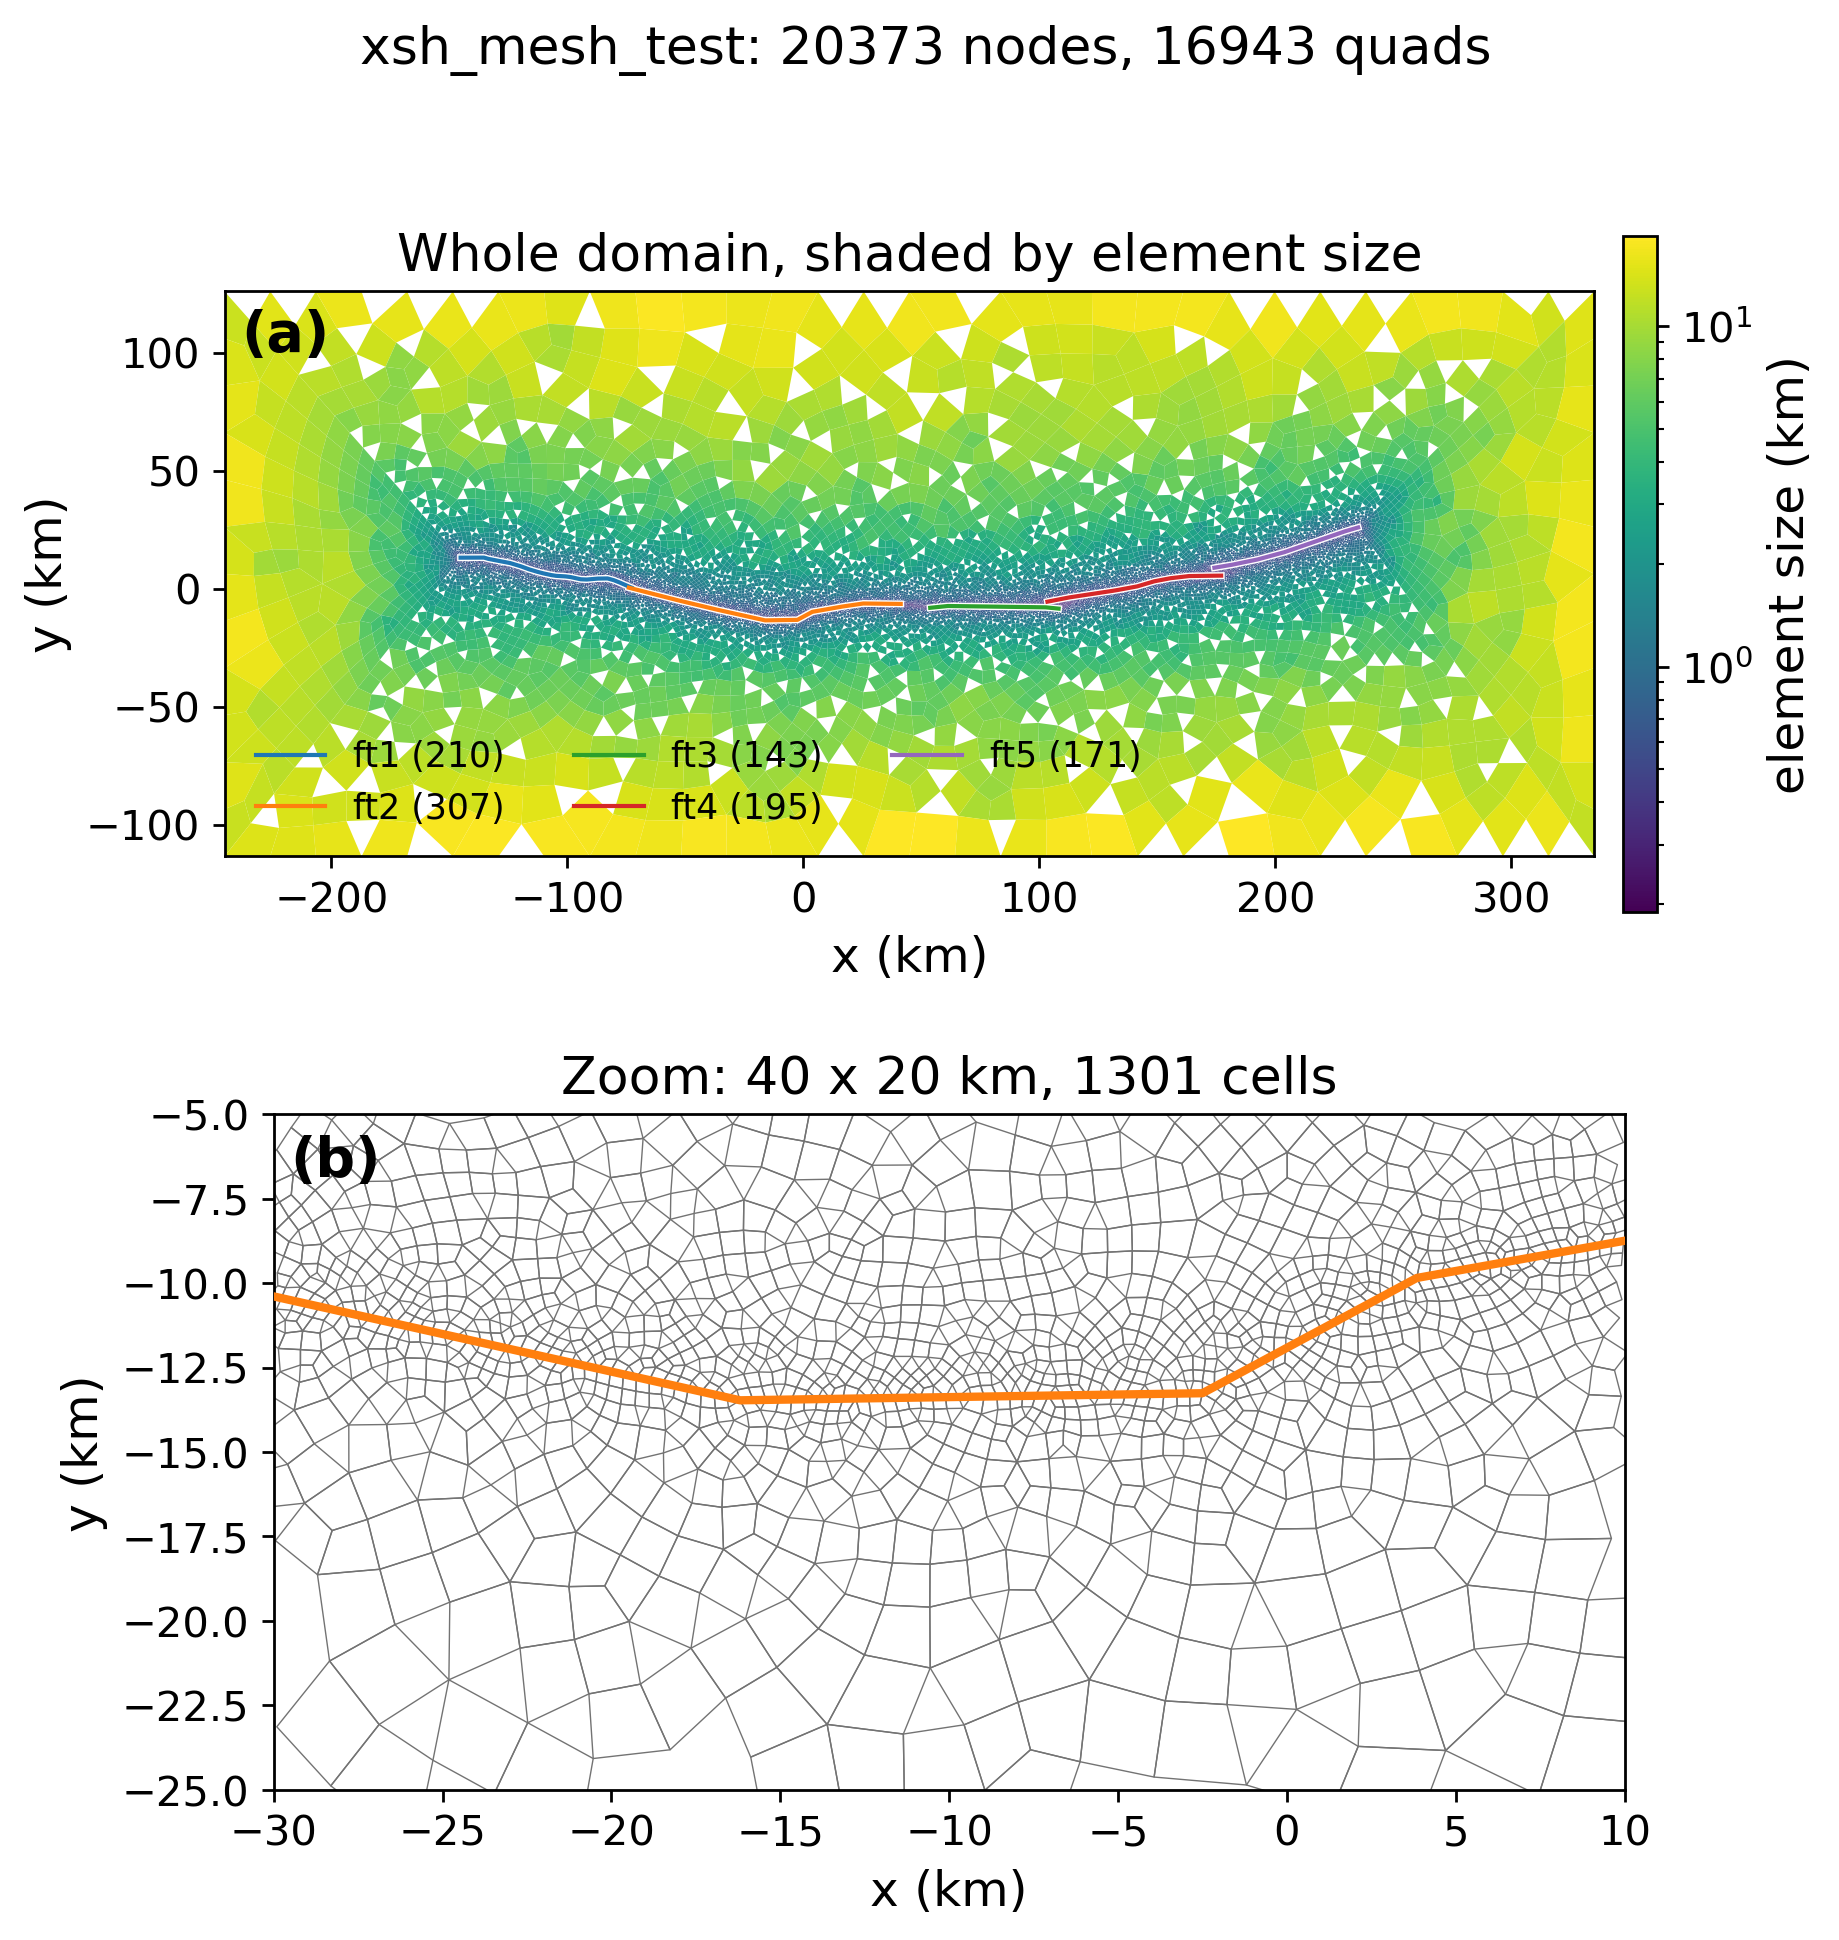
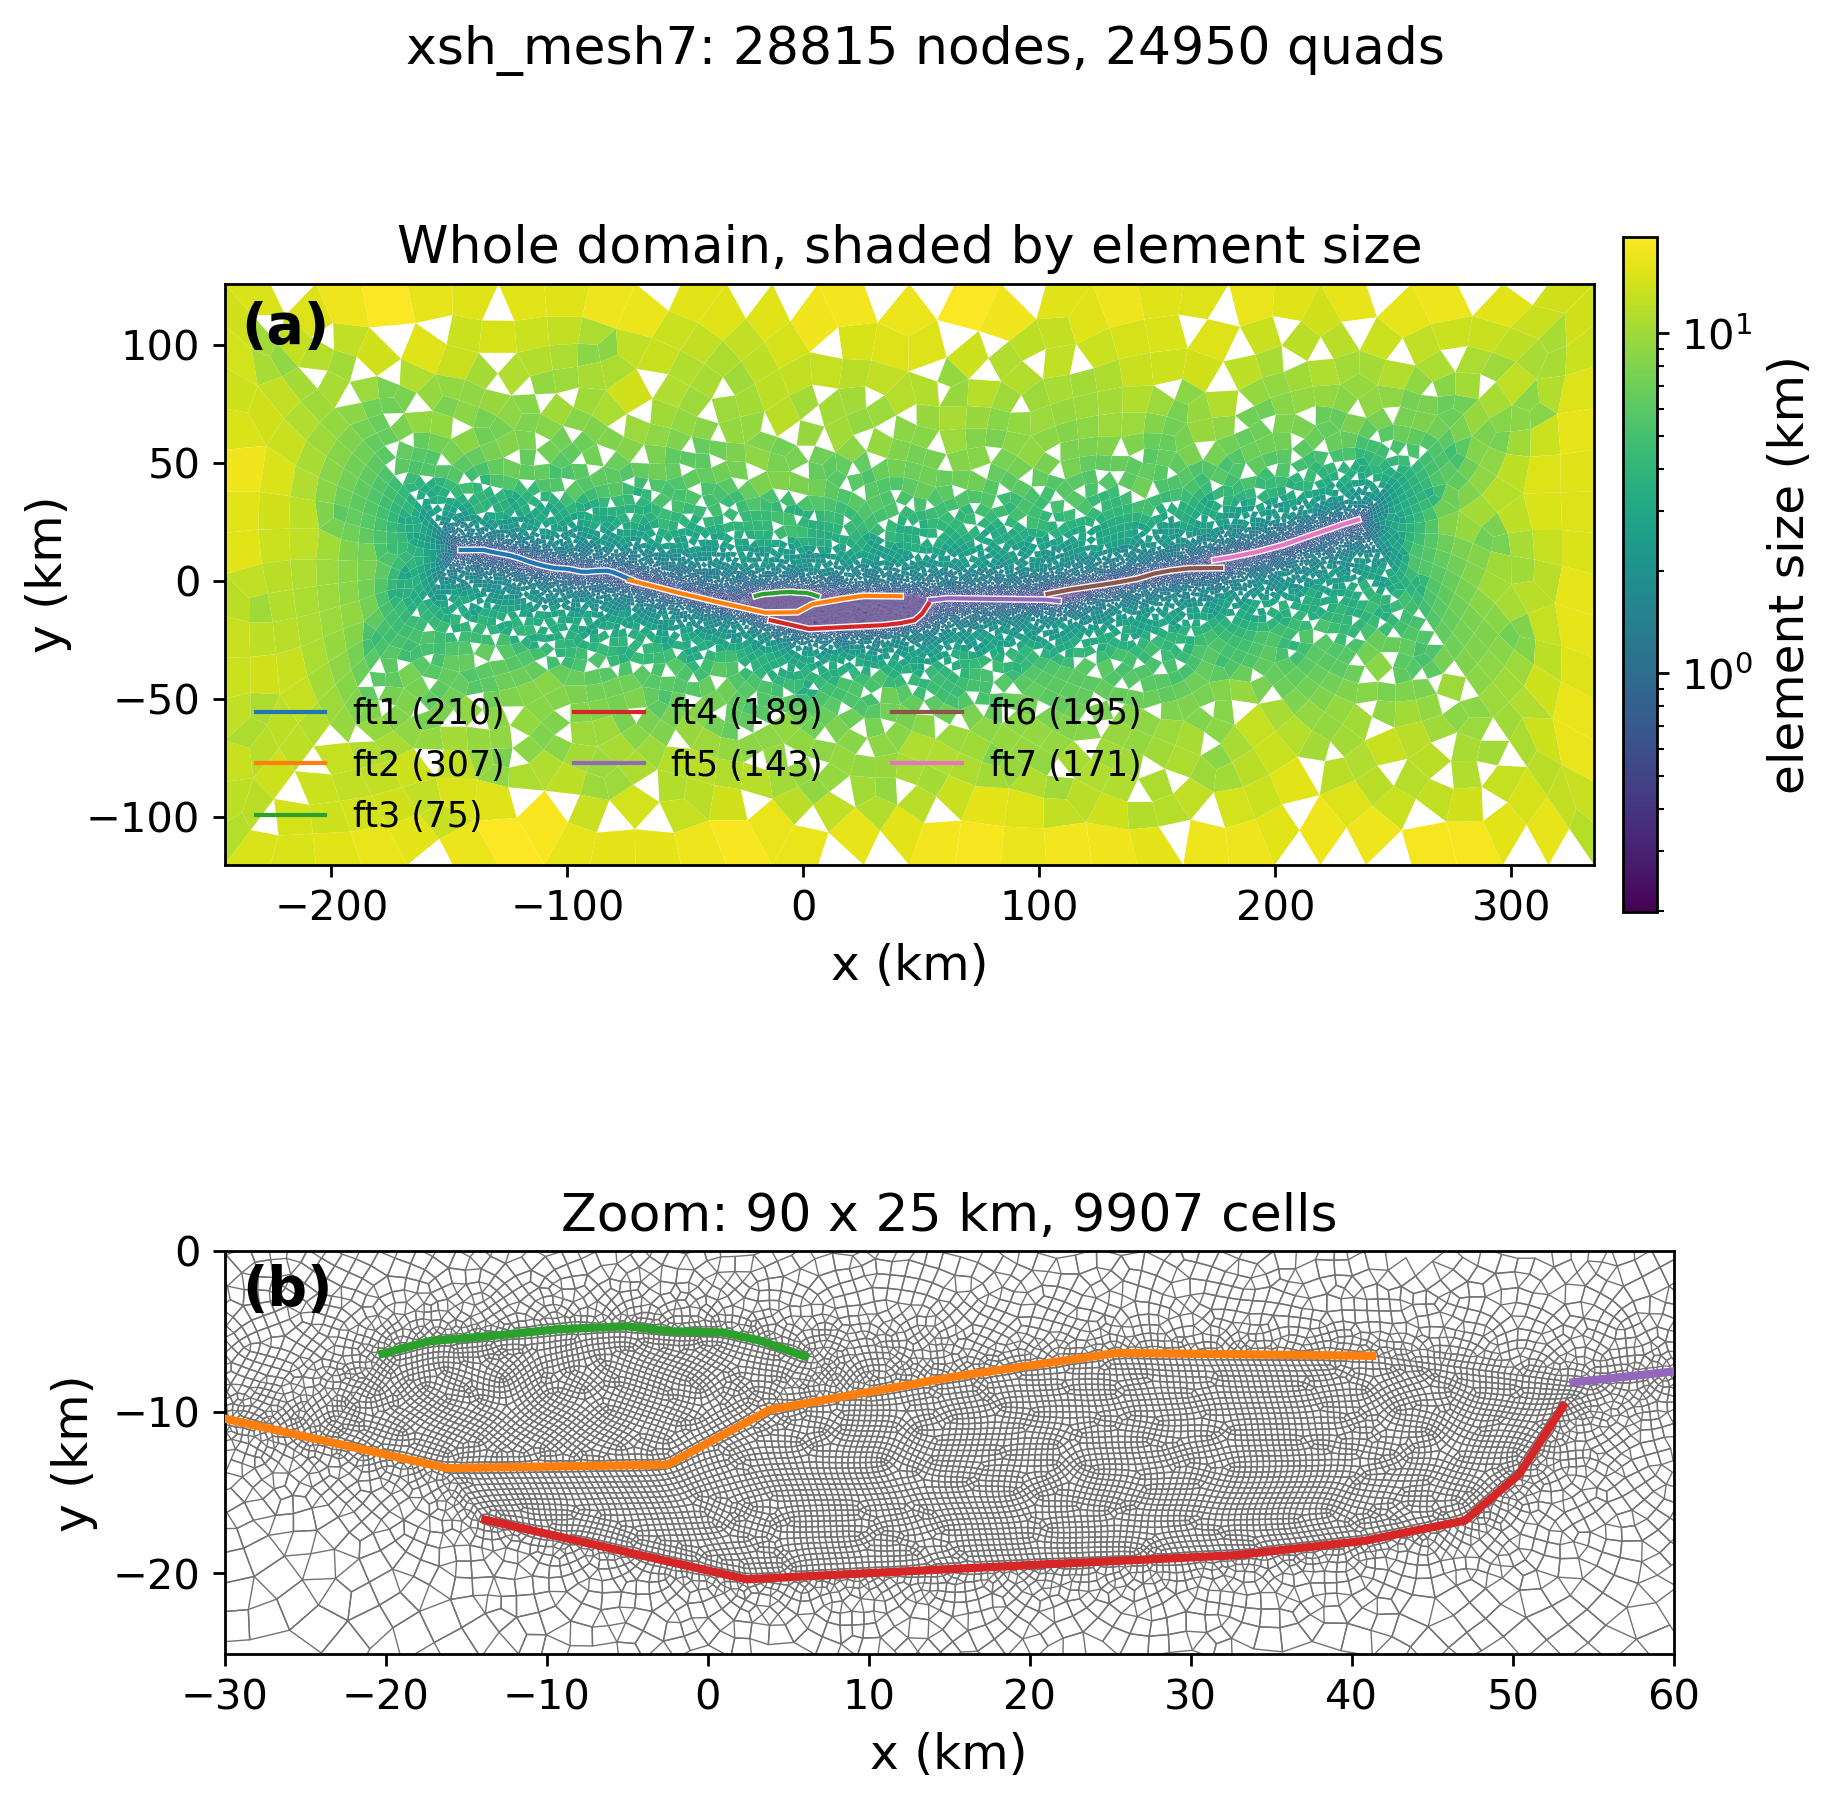
xianshuihe: mesh all seven faults, splays included
Replaces the 5-fault chain mesh with the full 7-fault system. ft3 runs
above the chain and ft4 below it, so neither is embedded in a block --
each divides one side into a lens (splay to chain) plus the outer block,
giving six surfaces against gulang's four.

The first attempt hung gmsh rather than failing. Cause: the auxiliary line
from ft3's end to ft2's END crosses ft2. ft2 is still at y ~ -10 beneath
ft3 and only rises to -6.5 at its own end, so the straight line cuts the
chain and the lens loop self-intersects. Verified by segment-intersection
test before changing anything -- A3e crossed ft2 once, the other three
auxiliaries were clean.

Fix: attach each splay auxiliary to the control point ON ft2 nearest the
splay end, not to ft2's far end. gmsh numbers a fault's points
consecutively, so interior point k is node ftEndNodeId[0]+k; the lens then
bounds only the ft2 span beneath the splay and the auxiliaries are short
and near-perpendicular. Attach points come out at ft2 indices 8 and 11 for
ft3, 9 for ft4.

Mesh: 28815 nodes, 24950 quads, fault nodes
210/307/75/189/143/195/171 = 1290. Cell geometry is clean -- 0 degenerate,
0 cells with angle<20 deg or aspect>10, aspect median 1.25 max 3.01,
minimum interior angle 34.4 deg.

KNOWN DEFECT, not yet fixed: checkMeshQuality reports 1 master orphan on
ft4. Every other fault is clean on both master and slave. It is almost
certainly at ft4's NW end where the A4e auxiliary meets ft5's start. This
[…]

diff --git a/compset/xianshuihe.gmsh.lite/meshgen.py b/compset/xianshuihe.gmsh.lite/meshgen.py
@@ -21,13 +21,15 @@ meshName = 'eqdynaMesh'
 # Xianshuihe through-going chain: 5 faults succeeding one another SE -> NW,
 # connected by auxiliary lines for mesh topology. Built by
 # export_fault_geometry.py from the 1:1M KML; see README for the mapping
-# mf1..mf5 -> ft1,ft2,ft5,ft6,ft7 and which polylines each merges.
+# ft1..ft7; see README for which polylines each fault merges.
 #
-# The two splay strands (seg3, seg5) are NOT here. They run parallel to mf2
-# rather than continuing it, so they need a hand-built multi-surface topology
-# like subei.gmsh.lite's, not this chain. Deferred deliberately.
-ftNamesForGmsh = ['mf1', 'mf2', 'mf3', 'mf4', 'mf5']
-ftNames = ['mf1', 'mf2', 'mf3', 'mf4', 'mf5']
+# Seven faults. Five form the through-going chain ft1 -> ft2 -> ft5 -> ft6 ->
+# ft7; ft3 and ft4 are the Kangding splay strands. ft3 runs ABOVE the chain
+# and ft4 BELOW it, so neither is embedded inside a block -- each divides one
+# side into a lens (between the splay and the chain) plus the outer block.
+# That gives six surfaces against gulang's four.
+ftNamesForGmsh = ['ft1', 'ft2', 'ft3', 'ft4', 'ft5', 'ft6', 'ft7']
+ftNames = ['ft1', 'ft2', 'ft3', 'ft4', 'ft5', 'ft6', 'ft7']
 
 
 system = "xianshuihe"
@@ -68,6 +70,7 @@ lineCount = 0
 surfaceCount = 0
 from scipy.interpolate import CubicSpline as _CS
 ftCtrlSpline = {}      # {ftName: (xs_km, CubicSpline_obj)} for analytical tangent
+ftDecimated = {}       # {ftName: decimated control points}
 for ftName in ftNamesForGmsh:
     ftFileName = 'user_fault_geometry_input/' + ftName + '.gmt.txt'
     ftLoc = loadFtLoc(ftFileName)
@@ -80,6 +83,11 @@ for ftName in ftNamesForGmsh:
     ftCtrlSpline[ftName] = (xs_dec.copy(), _CS(xs_dec, ys_dec, bc_type='natural'))
     numOfControlPts, ftEndNodeId, ftRange = createFtPoints(ftLoc, numOfControlPts, dx)
     ftEndNodeIdDict[ftName] = ftEndNodeId
+    # Keep the decimated control points and the id of the first one. gmsh
+    # numbers a fault's points consecutively, so interior point k has node id
+    # ftEndNodeId[0] + k -- needed to attach the splay auxiliaries to the
+    # nearest point ON the chain instead of to its far end.
+    ftDecimated[ftName] = ftLoc
     modelRange = redefineModelRange(modelRange, ftRange)
     lineCount, ftEndLineId = createLinesForFt(ftEndNodeId, lineCount)
     ftEndLineIdDict[ftName] = ftEndLineId
@@ -98,12 +106,13 @@ numOfControlPts, boundaryNodeIdDict = createBoundaryNodes(numOfControlPts, model
 # this part always needs some customized design
 # all lines are defined counterclockwisely.
 
-mf1Curve = [i+ftEndLineIdDict['mf1'][0] for i in range(ftEndLineIdDict['mf1'][1]-ftEndLineIdDict['mf1'][0]+1)]
-mf2Curve = [i+ftEndLineIdDict['mf2'][0] for i in range(ftEndLineIdDict['mf2'][1]-ftEndLineIdDict['mf2'][0]+1)]
-mf3Curve = [i+ftEndLineIdDict['mf3'][0] for i in range(ftEndLineIdDict['mf3'][1]-ftEndLineIdDict['mf3'][0]+1)]
-mf4Curve = [i+ftEndLineIdDict['mf4'][0] for i in range(ftEndLineIdDict['mf4'][1]-ftEndLineIdDict['mf4'][0]+1)]
-mf5Curve = [i+ftEndLineIdDict['mf5'][0] for i in range(ftEndLineIdDict['mf5'][1]-ftEndLineIdDict['mf5'][0]+1)]
-#print(mf1Curve, mf2Curve, mf3Curve, mf4Curve, mf5Curve)
+ft1Curve = [k+ftEndLineIdDict['ft1'][0] for k in range(ftEndLineIdDict['ft1'][1]-ftEndLineIdDict['ft1'][0]+1)]
+ft2Curve = [k+ftEndLineIdDict['ft2'][0] for k in range(ftEndLineIdDict['ft2'][1]-ftEndLineIdDict['ft2'][0]+1)]
+ft3Curve = [k+ftEndLineIdDict['ft3'][0] for k in range(ftEndLineIdDict['ft3'][1]-ftEndLineIdDict['ft3'][0]+1)]
+ft4Curve = [k+ftEndLineIdDict['ft4'][0] for k in range(ftEndLineIdDict['ft4'][1]-ftEndLineIdDict['ft4'][0]+1)]
+ft5Curve = [k+ftEndLineIdDict['ft5'][0] for k in range(ftEndLineIdDict['ft5'][1]-ftEndLineIdDict['ft5'][0]+1)]
+ft6Curve = [k+ftEndLineIdDict['ft6'][0] for k in range(ftEndLineIdDict['ft6'][1]-ftEndLineIdDict['ft6'][0]+1)]
+ft7Curve = [k+ftEndLineIdDict['ft7'][0] for k in range(ftEndLineIdDict['ft7'][1]-ftEndLineIdDict['ft7'][0]+1)]
 
 # boundary edges
 lineCount += 1
@@ -115,37 +124,79 @@ L = gmsh.model.geo.addLine(boundaryNodeIdDict['left_top'], boundaryNodeIdDict['l
 lineCount += 1
 R = gmsh.model.geo.addLine(boundaryNodeIdDict['right_top'], boundaryNodeIdDict['right_bottom'], tag=lineCount)
 
-# fault chain to boundary
+# chain ends to boundary
 lineCount += 1
-FT_LT = gmsh.model.geo.addLine(ftEndNodeIdDict['mf1'][0], boundaryNodeIdDict['left_top'], tag=lineCount) # ft1 start to left top
+FT_LT = gmsh.model.geo.addLine(ftEndNodeIdDict['ft1'][0], boundaryNodeIdDict['left_top'], tag=lineCount)
 lineCount += 1
-FT_LB = gmsh.model.geo.addLine(ftEndNodeIdDict['mf1'][0], boundaryNodeIdDict['left_bottom'], tag=lineCount) # ft1 start to left bottom
+FT_LB = gmsh.model.geo.addLine(ftEndNodeIdDict['ft1'][0], boundaryNodeIdDict['left_bottom'], tag=lineCount)
 lineCount += 1
-FT_RT = gmsh.model.geo.addLine(ftEndNodeIdDict['mf5'][1], boundaryNodeIdDict['right_top'], tag=lineCount) # ft5 end to right top
+FT_RT = gmsh.model.geo.addLine(ftEndNodeIdDict['ft7'][1], boundaryNodeIdDict['right_top'], tag=lineCount)
 lineCount += 1
-FT_RB = gmsh.model.geo.addLine(ftEndNodeIdDict['mf5'][1], boundaryNodeIdDict['right_bottom'], tag=lineCount) # ft5 end to right bottom
+FT_RB = gmsh.model.geo.addLine(ftEndNodeIdDict['ft7'][1], boundaryNodeIdDict['right_bottom'], tag=lineCount)
 
-# connecting adjacent faults
+# chain connectors
 lineCount += 1
-F1_F2 = gmsh.model.geo.addLine(ftEndNodeIdDict['mf1'][1], ftEndNodeIdDict['mf2'][0], tag=lineCount) # ft1 end to ft2 start
+C12 = gmsh.model.geo.addLine(ftEndNodeIdDict['ft1'][1], ftEndNodeIdDict['ft2'][0], tag=lineCount)
 lineCount += 1
-F2_F3 = gmsh.model.geo.addLine(ftEndNodeIdDict['mf2'][1], ftEndNodeIdDict['mf3'][0], tag=lineCount) # ft2 end to ft3 start
+C25 = gmsh.model.geo.addLine(ftEndNodeIdDict['ft2'][1], ftEndNodeIdDict['ft5'][0], tag=lineCount)
 lineCount += 1
-F3_F4 = gmsh.model.geo.addLine(ftEndNodeIdDict['mf3'][1], ftEndNodeIdDict['mf4'][0], tag=lineCount) # ft3 end to ft4 start
+C56 = gmsh.model.geo.addLine(ftEndNodeIdDict['ft5'][1], ftEndNodeIdDict['ft6'][0], tag=lineCount)
 lineCount += 1
-F4_F5 = gmsh.model.geo.addLine(ftEndNodeIdDict['mf4'][1], ftEndNodeIdDict['mf5'][0], tag=lineCount) # ft4 end to ft5 start
+C67 = gmsh.model.geo.addLine(ftEndNodeIdDict['ft6'][1], ftEndNodeIdDict['ft7'][0], tag=lineCount)
 
-# the fault chain as a single curve list
-faultChain = mf1Curve+[F1_F2]+mf2Curve+[F2_F3]+mf3Curve+[F3_F4]+mf4Curve+[F4_F5]+mf5Curve
-reversedFaultChain = addMinusToList(mf5Curve[::-1])+[-F4_F5]+addMinusToList(mf4Curve[::-1])+[-F3_F4]+addMinusToList(mf3Curve[::-1])+[-F2_F3]+addMinusToList(mf2Curve[::-1])+[-F1_F2]+addMinusToList(mf1Curve[::-1])
+# Splay auxiliaries. ft3 hangs above ft2, ft4 below it and on to ft5.
+#
+# Attach each auxiliary to the control point ON ft2 nearest the splay end,
+# not to ft2's far end. A straight line from ft3's end to ft2's end CROSSES
+# ft2 (ft2 is still at y ~ -10 under ft3 and only rises to -6.5 at its end),
+# which makes the lens loop self-intersecting; gmsh then spins instead of
+# failing. Short, near-perpendicular auxiliaries avoid it.
+def nearestOnFt2(pt):
+    """Index of the ft2 control point nearest pt, and its gmsh node id."""
+    k = int(np.argmin(np.hypot(*(ftDecimated['ft2'] - pt).T)))
+    return k, ftEndNodeIdDict['ft2'][0] + k
 
-# top block (above fault chain)
-surfaceCount = createSurface(faultChain+[FT_RT, T, -FT_LT], surfaceCount)
-# left block (triangle)
+k3s, n3s = nearestOnFt2(ftDecimated['ft3'][0])
+k3e, n3e = nearestOnFt2(ftDecimated['ft3'][-1])
+k4s, n4s = nearestOnFt2(ftDecimated['ft4'][0])
+k3s, k3e = min(k3s, k3e), max(k3s, k3e)
+print(f"splay attach points on ft2: ft3 [{k3s}, {k3e}], ft4 start [{k4s}]")
+
+lineCount += 1
+A3s = gmsh.model.geo.addLine(ftEndNodeIdDict['ft2'][0] + k3s, ftEndNodeIdDict['ft3'][0], tag=lineCount)
+lineCount += 1
+A3e = gmsh.model.geo.addLine(ftEndNodeIdDict['ft3'][1], ftEndNodeIdDict['ft2'][0] + k3e, tag=lineCount)
+lineCount += 1
+A4s = gmsh.model.geo.addLine(ftEndNodeIdDict['ft2'][0] + k4s, ftEndNodeIdDict['ft4'][0], tag=lineCount)
+lineCount += 1
+A4e = gmsh.model.geo.addLine(ftEndNodeIdDict['ft4'][1], ftEndNodeIdDict['ft5'][0], tag=lineCount)
+
+rev = addMinusToList
+# ft2's line ids are consecutive; line j joins control points j and j+1.
+ft2Pre  = ft2Curve[:k3s]
+ft2Mid  = ft2Curve[k3s:k3e]
+ft2Post = ft2Curve[k3e:]
+ft2ToF4 = ft2Curve[:k4s]
+ft2FromF4 = ft2Curve[k4s:]
+
+# Upper envelope: chain, routed over ft3 for the span the splay covers.
+upper = (ft1Curve + [C12] + ft2Pre + [A3s] + ft3Curve + [A3e] + ft2Post
+         + [C25] + ft5Curve + [C56] + ft6Curve + [C67] + ft7Curve)
+# Lower envelope, ft7 back to ft1, routed under ft4.
+lower = (rev(ft7Curve[::-1]) + [-C67] + rev(ft6Curve[::-1]) + [-C56]
+         + rev(ft5Curve[::-1]) + [-A4e] + rev(ft4Curve[::-1]) + [-A4s]
+         + rev(ft2ToF4[::-1]) + [-C12] + rev(ft1Curve[::-1]))
+
+# top block, above the upper envelope
+surfaceCount = createSurface(upper + [FT_RT, T, -FT_LT], surfaceCount)
+# lens between ft3 and the ft2 span beneath it
+surfaceCount = createSurface([A3s] + ft3Curve + [A3e] + rev(ft2Mid[::-1]), surfaceCount)
+# lens between ft4 and the chain above it (ft2 from the attach point, then C25)
+surfaceCount = createSurface([A4s] + ft4Curve + [A4e, -C25] + rev(ft2FromF4[::-1]), surfaceCount)
+# bottom block, below the lower envelope
+surfaceCount = createSurface(lower + [FT_LB, -B, -FT_RB], surfaceCount)
+# corner triangles
 surfaceCount = createSurface([FT_LB, -L, -FT_LT], surfaceCount)
-# bottom block (below fault chain)
-surfaceCount = createSurface(reversedFaultChain+[FT_LB, -B, -FT_RB], surfaceCount)
-# right block (triangle)
 surfaceCount = createSurface([FT_RB, -R, -FT_RT], surfaceCount)
 
 gmsh.model.geo.synchronize()
@@ -168,11 +219,13 @@ gmsh.write('fem_mesh_output/' + meshName+'.msh')
 
 
 ftTag = {}
-ftTag['mf1'] = mf1Curve
-ftTag['mf2'] = mf2Curve
-ftTag['mf3'] = mf3Curve
-ftTag['mf4'] = mf4Curve
-ftTag['mf5'] = mf5Curve
+ftTag['ft1'] = ft1Curve
+ftTag['ft2'] = ft2Curve
+ftTag['ft3'] = ft3Curve
+ftTag['ft4'] = ft4Curve
+ftTag['ft5'] = ft5Curve
+ftTag['ft6'] = ft6Curve
+ftTag['ft7'] = ft7Curve
 if debugMode==True:
     print(ftTag)
 

diff --git a/compset/xianshuihe.gmsh.lite/export_fault_geometry.py b/compset/xianshuihe.gmsh.lite/export_fault_geometry.py
@@ -35,9 +35,11 @@ from plot_fault_trace import (assign_fault_ids, chain, polyline_length_km,
                               principal_frame, read_kml, rotate, to_local_km)
 
 # 7-fault id -> mesh name, for the through-going chain only.
-CHAIN = {"ft1": "mf1", "ft2": "mf2", "ft5": "mf3", "ft6": "mf4", "ft7": "mf5"}
-# Splay strands, written only with --all.
-STRANDS = {"ft3": "mf_splay_a", "ft4": "mf_splay_b"}
+# All seven faults, exported under their own ids. ft3 and ft4 are the splay
+# strands: ft3 runs above the chain, ft4 below it, so each divides one side
+# into a lens plus the outer block (see meshgen.py).
+CHAIN = {f"ft{i}": f"ft{i}" for i in range(1, 8)}
+STRANDS: dict[str, str] = {}
 
 
 def main() -> None:

diff --git a/compset/xianshuihe.gmsh.lite/user_defined_params.py b/compset/xianshuihe.gmsh.lite/user_defined_params.py
@@ -5,7 +5,7 @@ from defaultParameters import parameters
 par = parameters()
 
 par.C_mesh = 3
-par.ntotft = 5
+par.ntotft = 7
 par.friclaw = 4 
 par.dt1 = 0.01 
 par.term = 200. 
